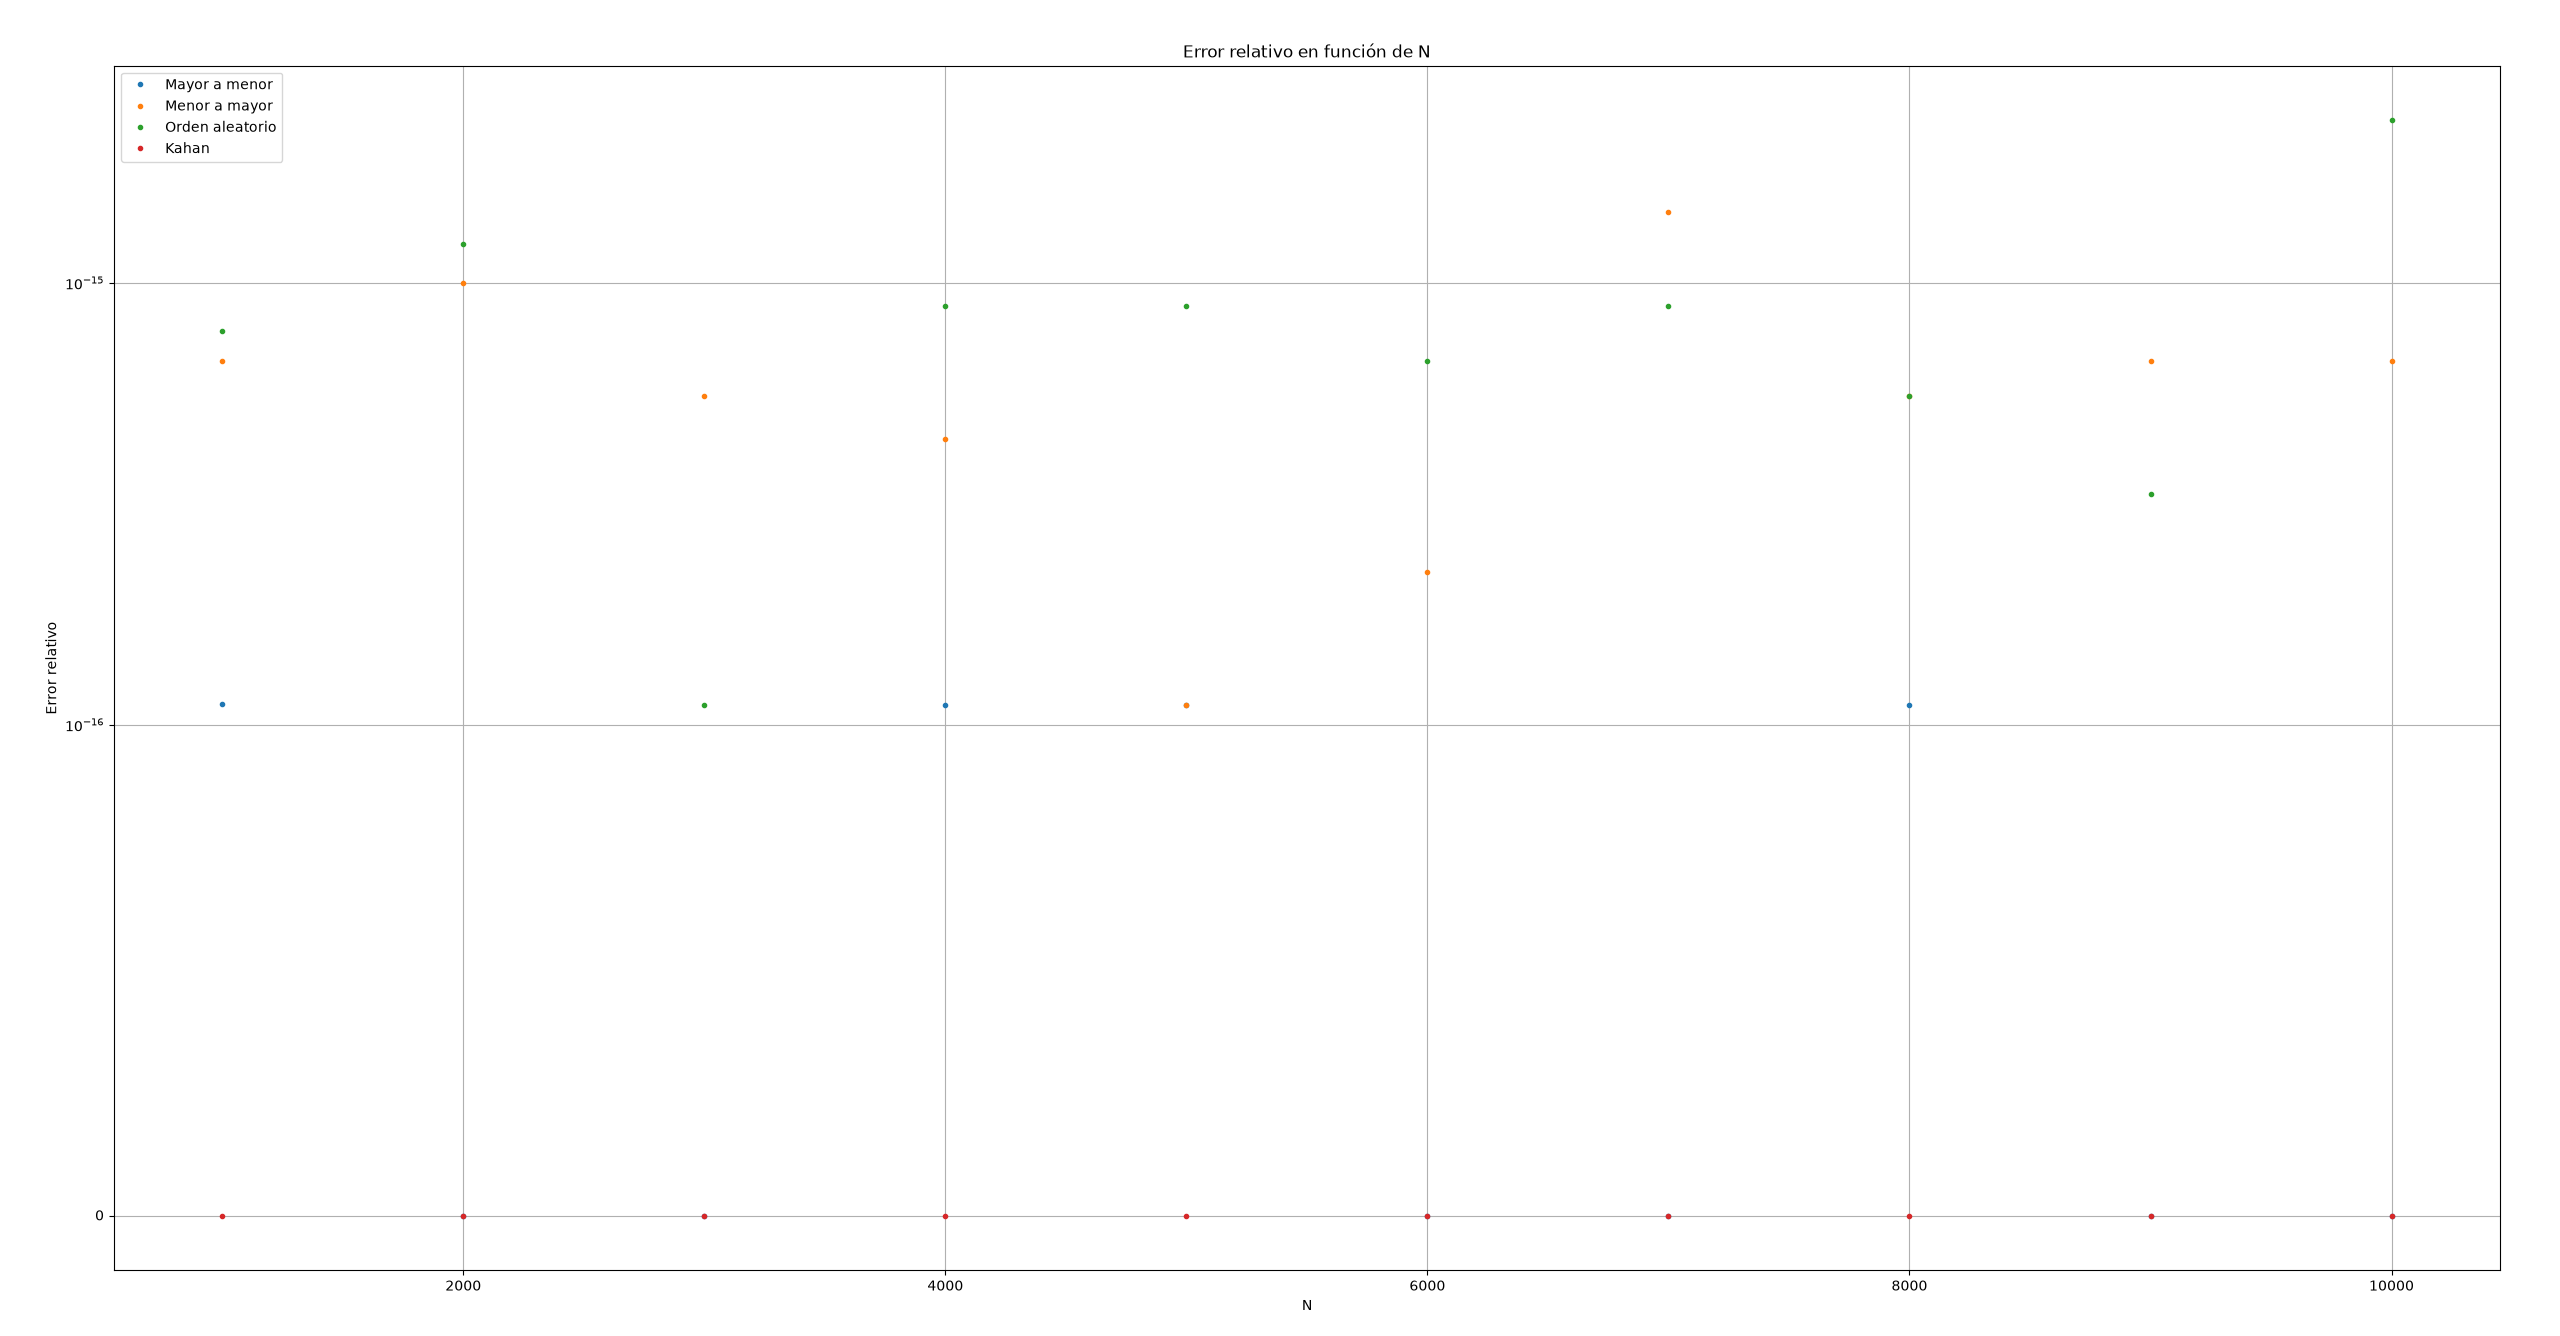
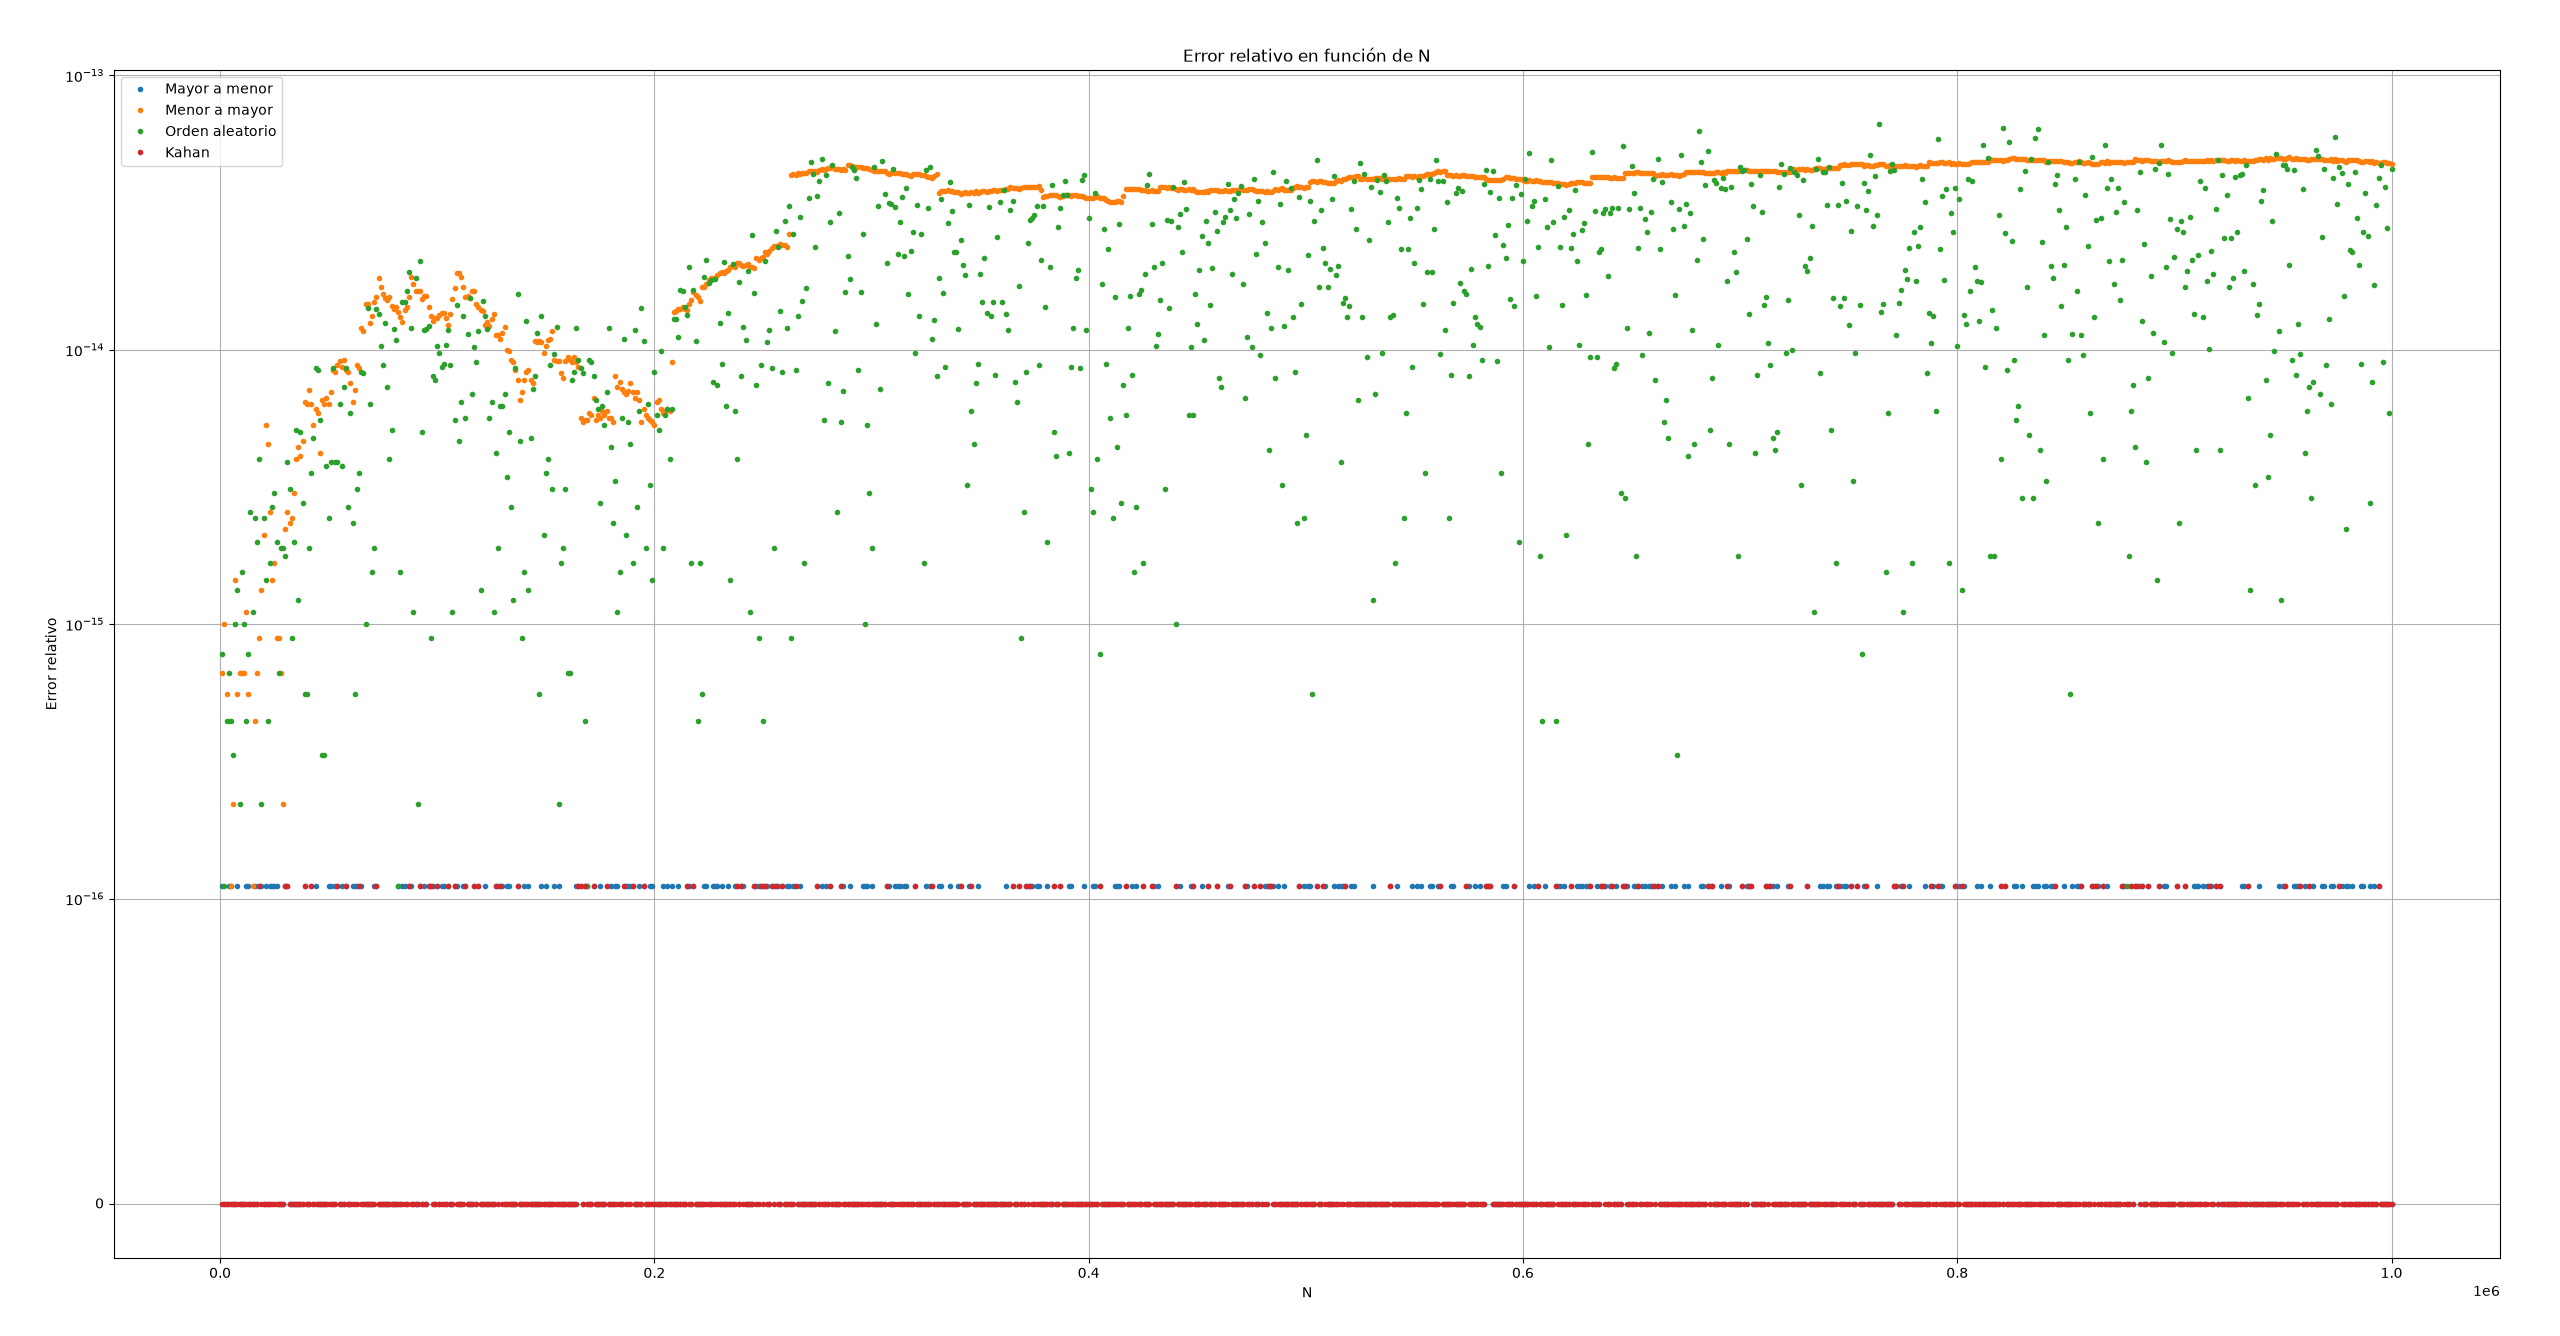
parte 3

diff --git a/parte 3/parte_3.py b/parte 3/parte_3.py
@@ -88,9 +88,36 @@ def graficar_errores(valores_N):
     plt.show()
 
 
-valores_N = range(10, 10001, 10)
-graficar_errores(valores_N)
+# valores_N = range(10, 10001, 10)
+# graficar_errores(valores_N)
 
-valores_N = range(1000, 10001, 1000)
-graficar_errores(valores_N)
+# valores_N = range(1000, 1000001, 1000)
+# graficar_errores(valores_N)
 
+error_suma_aleatoria = {
+    "Intento 1": suma_orden_aleatorio(800000)[2],
+    "Intento 2": suma_orden_aleatorio(800000)[2],
+    "Intento 3": suma_orden_aleatorio(800000)[2],
+    "Intento 4": suma_orden_aleatorio(800000)[2],
+    "Intento 5": suma_orden_aleatorio(800000)[2],
+    "Intento 6": suma_orden_aleatorio(800000)[2],
+}
+
+print("Error en suma aleatoria para N = 800000:")
+
+for intento, error in error_suma_aleatoria.items():
+    print(f"{intento}: {error}")
+    
+error_suma_menor_a_mayor = {
+    "Intento 1": suma_menor_a_mayor(800000)[2],
+    "Intento 2": suma_menor_a_mayor(800000)[2],
+    "Intento 3": suma_menor_a_mayor(800000)[2],
+    "Intento 4": suma_menor_a_mayor(800000)[2],
+    "Intento 5": suma_menor_a_mayor(800000)[2],
+    "Intento 6": suma_menor_a_mayor(800000)[2],
+}
+
+print("Error en suma menor a mayor para N = 800000:")
+
+for intento, error in error_suma_menor_a_mayor.items():
+    print(f"{intento}: {error}")
